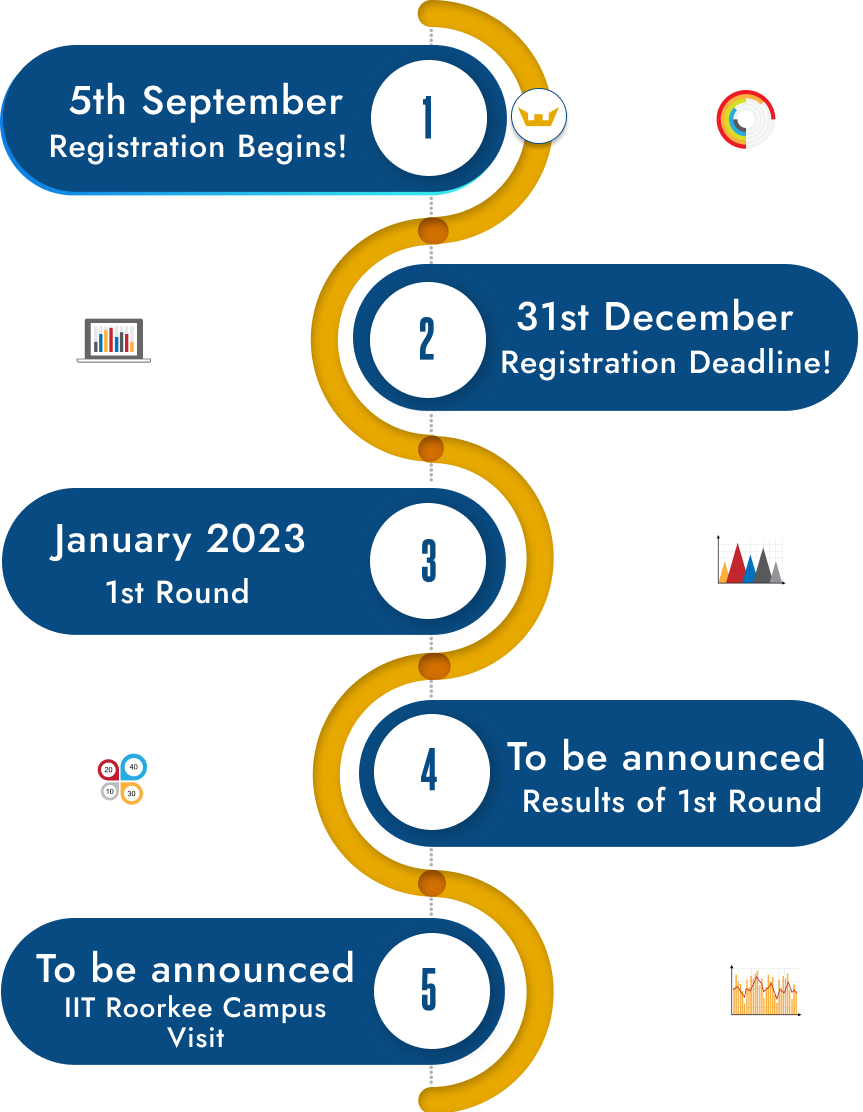
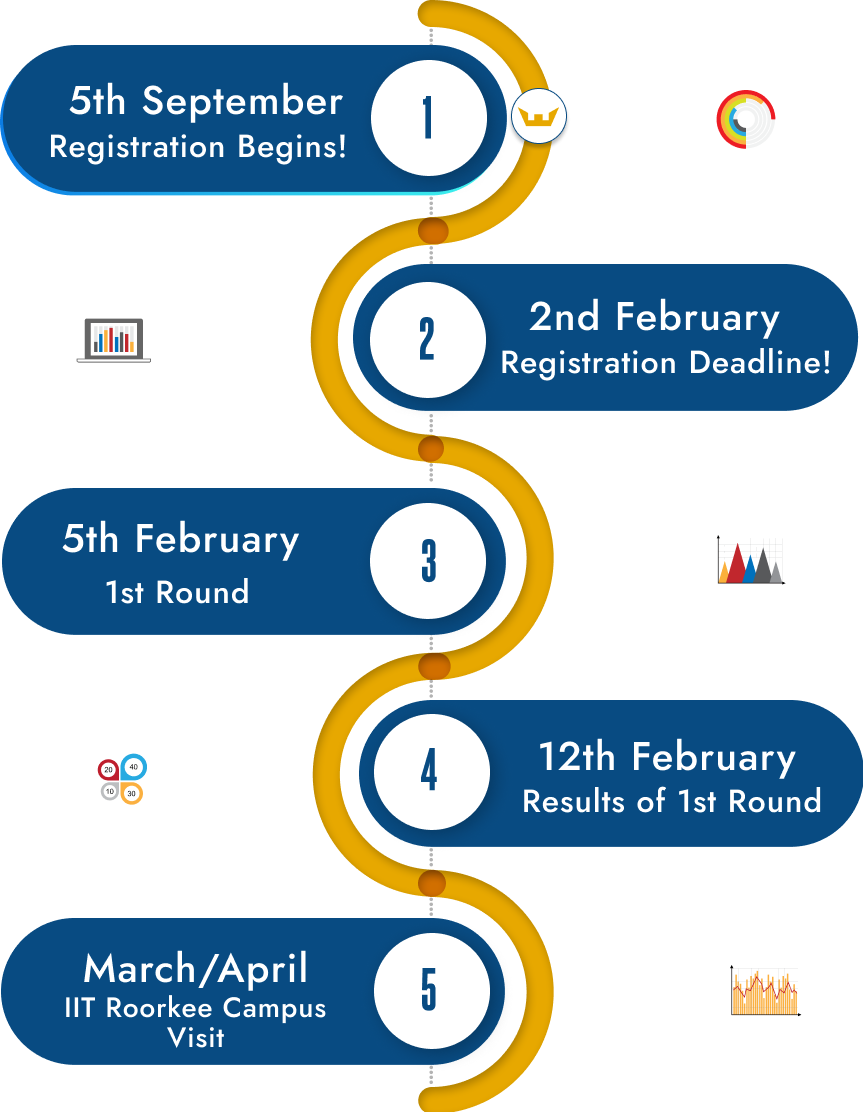
February Exam Dates Update

diff --git a/Frontend/src/Components/About/RoundComp.jsx b/Frontend/src/Components/About/RoundComp.jsx
@@ -23,8 +23,8 @@ const RoundComp = () => {
               </p>{" "}
               <br />
               <p>
-                The top 25 students each from the 9th & 10th and 11th grade
-                category and top 35 students from 12th grade category will get
+                The top 15 students each from the 9th & 10th and 11th grade
+                category and top 20 students from 12th grade category will get
                 to visit IIT Roorkee for the second round, ‘Pinnacle’ and win
                 exciting gifts and certificates.
               </p>

diff --git a/Frontend/src/Components/Events/updatesContent.js b/Frontend/src/Components/Events/updatesContent.js
@@ -2,13 +2,13 @@ const updates = [
   {
     id: 1,
     description:
-      "The inception round of GambitoR has been postponed and would be held in January.",
+      "The inception round of GambitoR is scheduled on 5th February 2023.",
     // time: "TIME",
     // date: "DATE",
   },
   {
     id: 2,
-    description: "Registration deadline: 31st December 2022.",
+    description: "Registration deadline: 1st February 2023.",
     // time: "TIME",
     // date: "DATE",
   },

diff --git a/Frontend/src/Components/About/DateNVenue.jsx b/Frontend/src/Components/About/DateNVenue.jsx
@@ -17,7 +17,7 @@ const dateContent = [
     content: (
       <>
         The <span>Inception round</span> will be conducted through online mode
-        nationwide in the month of January 2023.
+        nationwide on February 5th 2023.
       </>
     ),
   },
